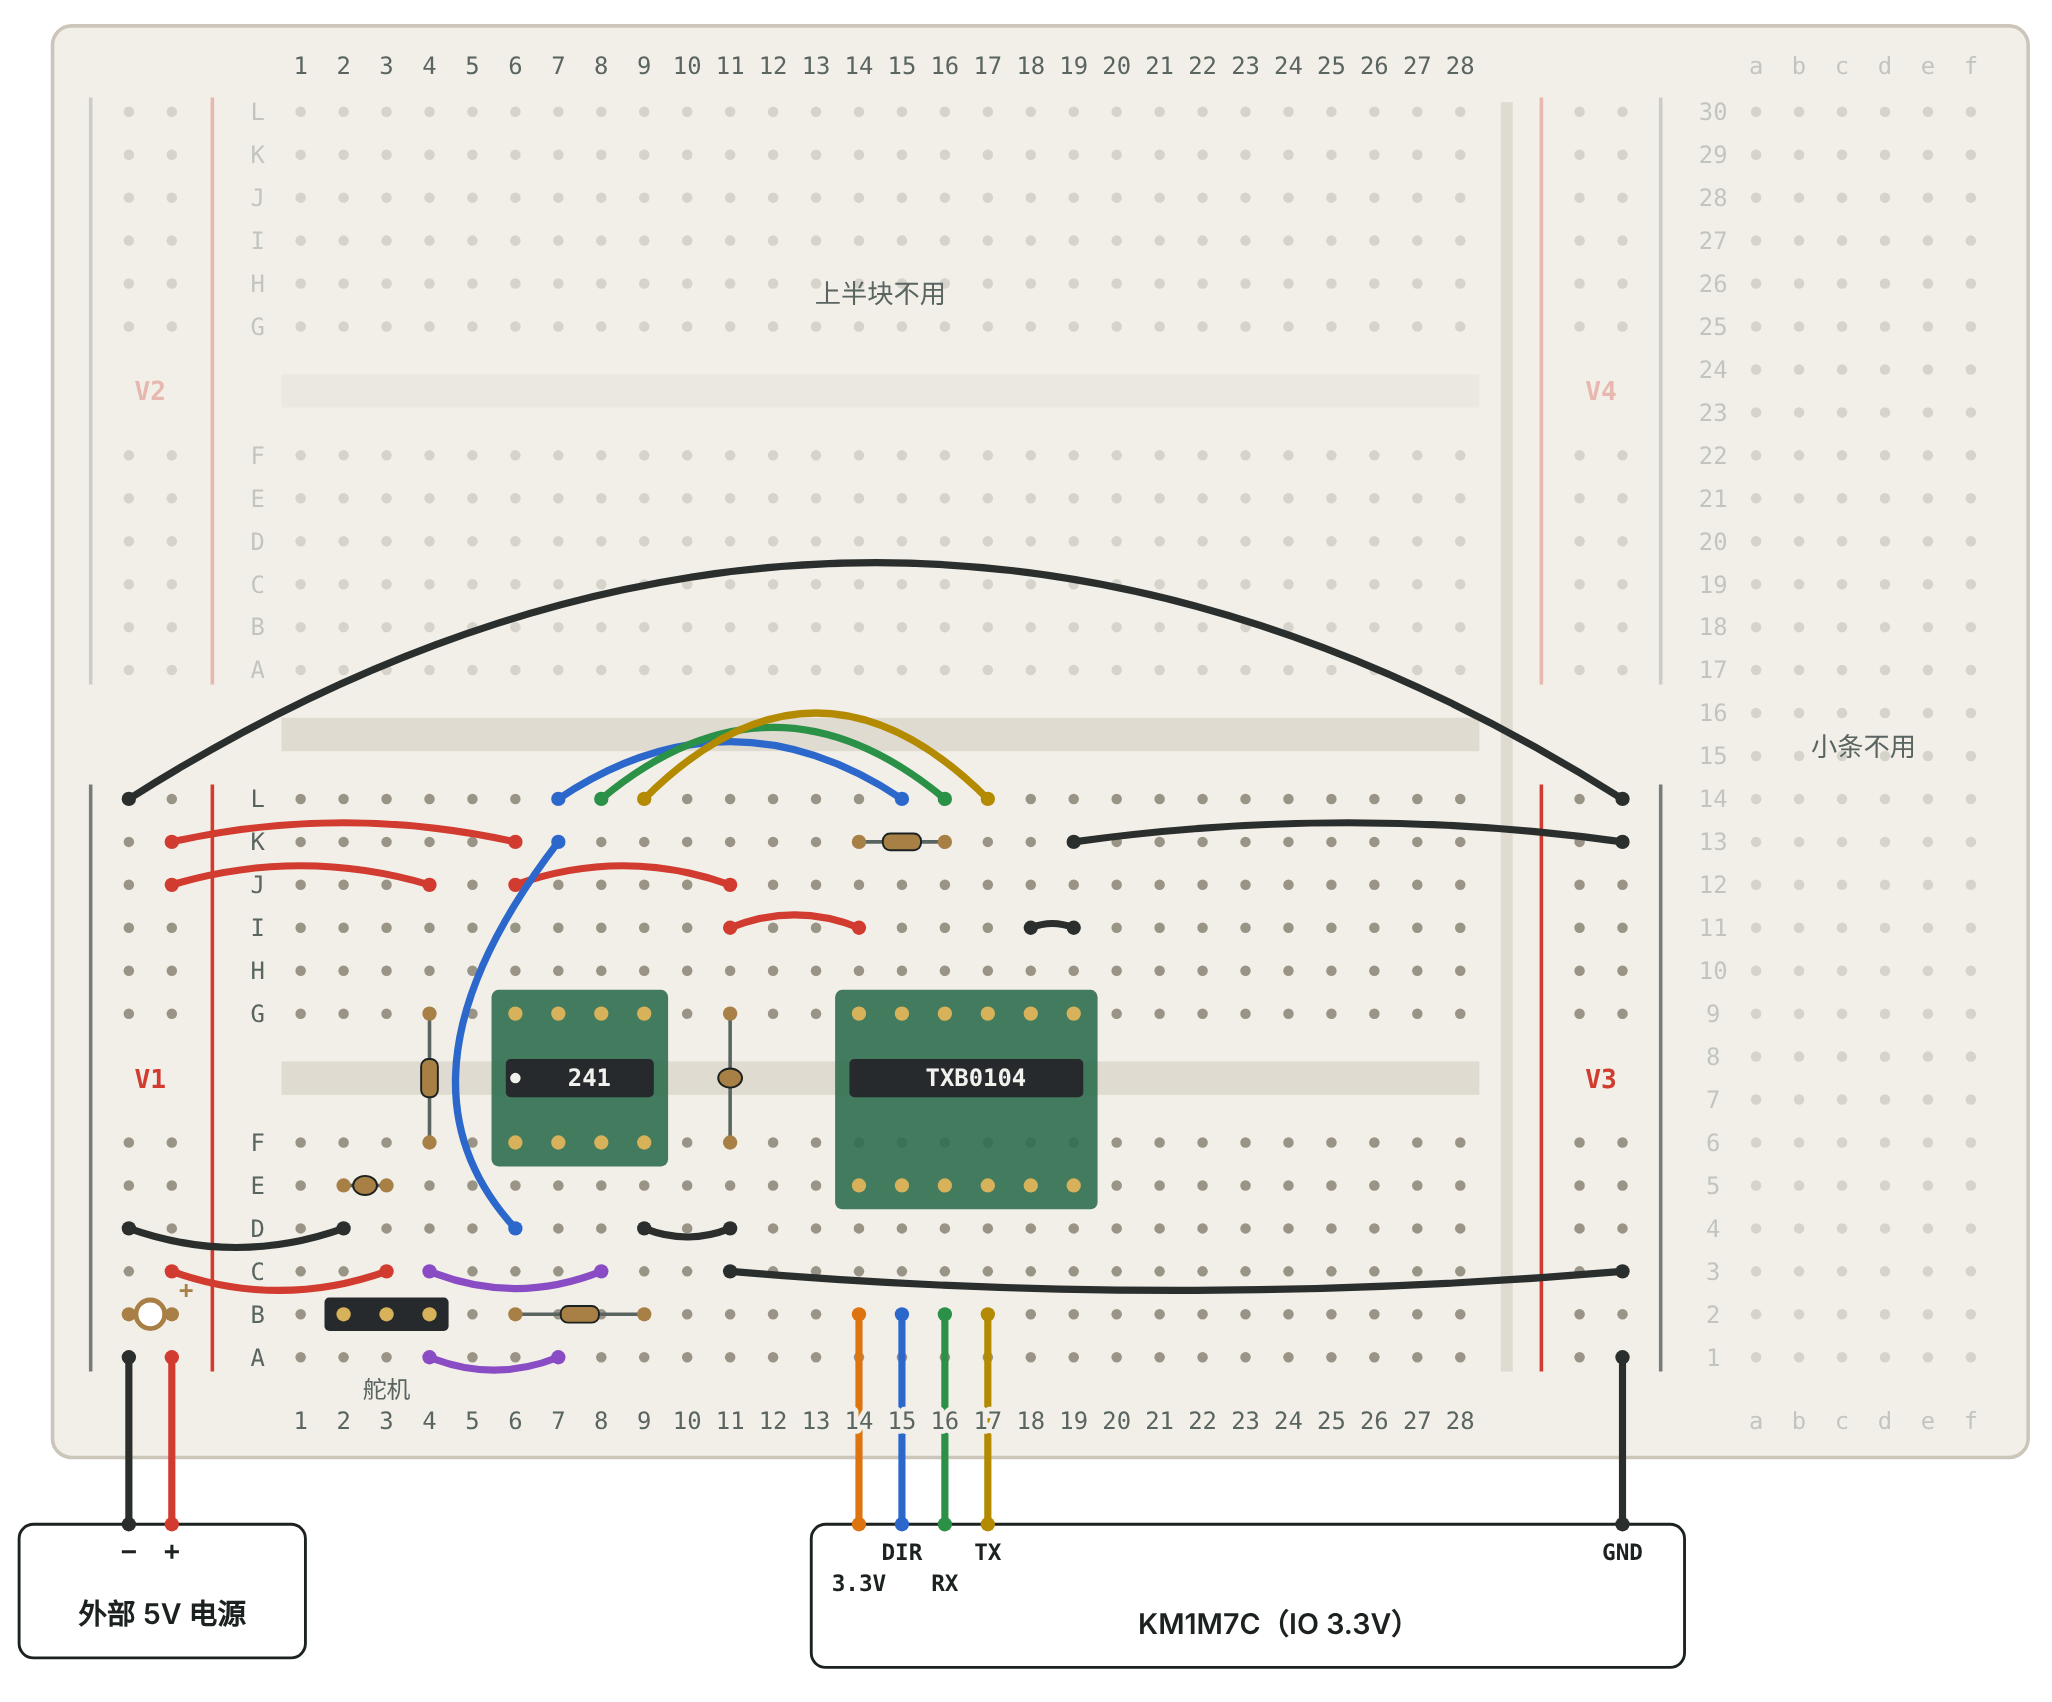
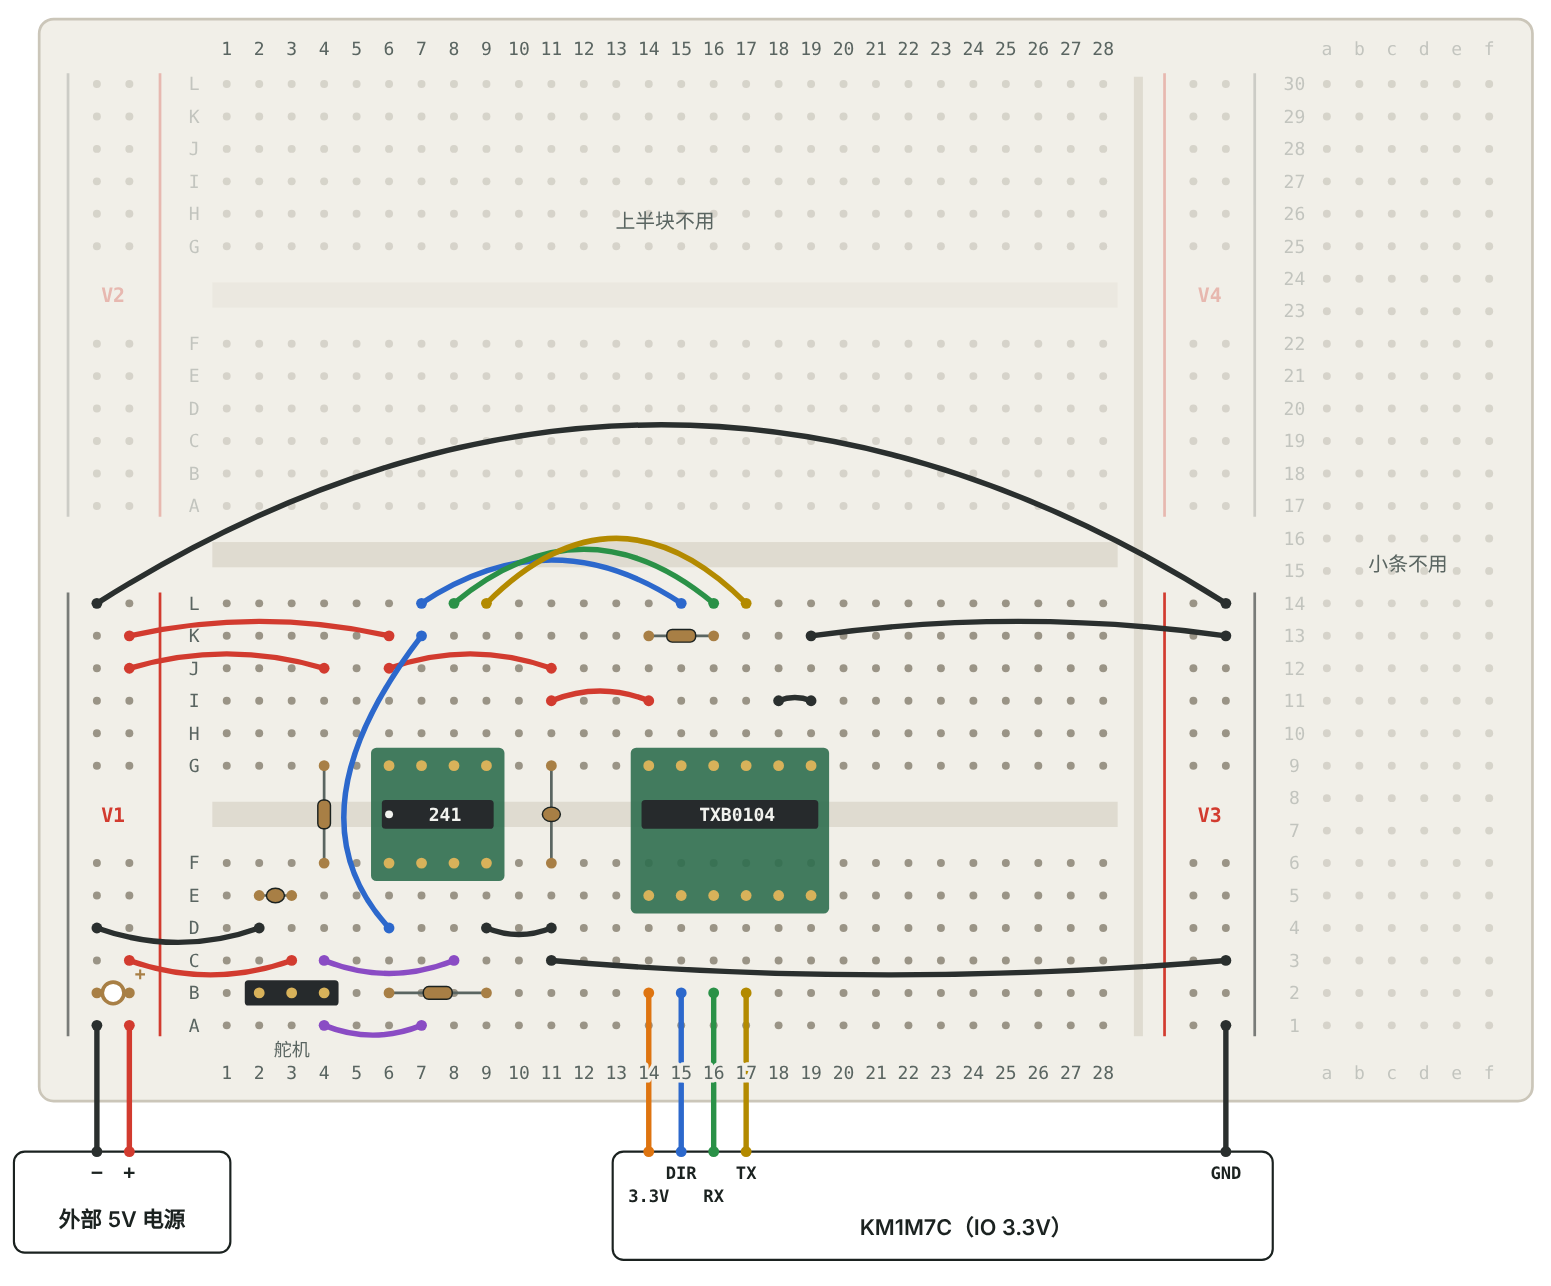
Add Adafruit 1875 module internal diagram
Claude-Session: https://claude.ai/code/session_01WiTXKFSppvefth2JxyFg7v

diff --git a/docs/breadboard/xl330_breadboard.html b/docs/breadboard/xl330_breadboard.html
@@ -258,6 +258,70 @@ ol.steps{margin:0;padding-left:1.4em;display:grid;gap:8px;max-width:72ch}
     </div>
   </section>
 
+  <section aria-labelledby="mod-h">
+    <h2 id="mod-h">TXB0104 模块内部</h2>
+    <p class="lede">这是 Adafruit 1875 模块板上的电路（照官方电路图画的）。虚线框里的元件板上已经焊好：C1、C2 是 LV、HV 的去耦电容，R1 把 OE 上拉到 LV，所以芯片一通电就工作。两侧圆点是排针，下面的小字是它在面包板上插的孔，框外写的是面包板上要接到哪里（括号里是接线清单编号）。</p>
+    <div class="frame">
+<svg class="sch" viewBox="0 0 1060 410" role="img" aria-labelledby="mod-t mod-d"><title id="mod-t">TXB0104 模块内部电路和面包板接法</title><desc id="mod-d">Adafruit 1875 模块：TXB0104 芯片、C1 和 C2 两个 0.1µF 去耦电容、R1 10k 把 OE 上拉到 LV。左排 LV A1 A2 A3 A4 OE 插 14E 到 19E，右排 HV B1 B2 B3 B4 GND 插 14G 到 19G，框外标出每个引脚在面包板上接到哪里。</desc>
+<rect x="305" y="30" width="460" height="370" rx="10" style="fill:none;stroke:var(--muted);stroke-width:1.5;stroke-dasharray:6 5"/>
+<text x="315" y="48" style="font-family:var(--sans);font-size:12px;fill:var(--muted)">Adafruit 1875 模块（虚线框内是板上已有的元件）</text>
+<rect class="bx" x="430" y="80" width="200" height="255" rx="6"/><text class="ttl" x="530" y="205" text-anchor="middle">TXB0104</text><text x="530" y="225" text-anchor="middle">每个通道自动判断方向</text>
+<line class="ln s-33" x1="295" y1="110" x2="320" y2="110"/><line class="ln s-33" x1="320" y1="110" x2="430" y2="110"/>
+<circle cx="320" cy="110" r="5" style="fill:var(--surface);stroke:var(--ink);stroke-width:1.5"/>
+<text x="330" y="103" style="font-weight:600;fill:var(--ink)">LV</text><text x="320" y="129" text-anchor="middle">14E</text>
+<text x="438" y="114">VCCA</text><text x="288" y="114" text-anchor="end" class="t-33">MCU 3.3V（M1）</text>
+<line class="ln s-dir" x1="295" y1="150" x2="320" y2="150"/><line class="ln s-dir" x1="320" y1="150" x2="430" y2="150"/>
+<circle cx="320" cy="150" r="5" style="fill:var(--surface);stroke:var(--ink);stroke-width:1.5"/>
+<text x="330" y="143" style="font-weight:600;fill:var(--ink)">A1</text><text x="320" y="169" text-anchor="middle">15E</text>
+<text x="438" y="154">A1</text><text x="288" y="154" text-anchor="end" class="t-dir">MCU DIR（S1）</text>
+<line class="ln s-rx" x1="295" y1="190" x2="320" y2="190"/><line class="ln s-rx" x1="320" y1="190" x2="430" y2="190"/>
+<circle cx="320" cy="190" r="5" style="fill:var(--surface);stroke:var(--ink);stroke-width:1.5"/>
+<text x="330" y="183" style="font-weight:600;fill:var(--ink)">A2</text><text x="320" y="209" text-anchor="middle">16E</text>
+<text x="438" y="194">A2</text><text x="288" y="194" text-anchor="end" class="t-rx">MCU RX（S2）</text>
+<line class="ln s-tx" x1="295" y1="230" x2="320" y2="230"/><line class="ln s-tx" x1="320" y1="230" x2="430" y2="230"/>
+<circle cx="320" cy="230" r="5" style="fill:var(--surface);stroke:var(--ink);stroke-width:1.5"/>
+<text x="330" y="223" style="font-weight:600;fill:var(--ink)">A3</text><text x="320" y="249" text-anchor="middle">17E</text>
+<text x="438" y="234">A3</text><text x="288" y="234" text-anchor="end" class="t-tx">MCU TX（S3）</text>
+<line class="ln s-mut" x1="320" y1="270" x2="430" y2="270"/>
+<circle cx="320" cy="270" r="5" style="fill:var(--surface);stroke:var(--ink);stroke-width:1.5"/>
+<text x="330" y="263" style="font-weight:600;fill:var(--ink)">A4</text><text x="320" y="289" text-anchor="middle">18E</text>
+<text x="438" y="274">A4</text><text x="296" y="274" text-anchor="end" style="fill:var(--muted)">不接</text>
+<line class="ln s-mut" x1="320" y1="310" x2="430" y2="310"/>
+<circle cx="320" cy="310" r="5" style="fill:var(--surface);stroke:var(--ink);stroke-width:1.5"/>
+<text x="330" y="303" style="font-weight:600;fill:var(--ink)">OE</text><text x="320" y="329" text-anchor="middle">19E</text>
+<text x="438" y="314">OE</text><text x="296" y="314" text-anchor="end" style="fill:var(--muted)">不接</text>
+<line class="ln s-5" x1="630" y1="110" x2="750" y2="110"/><line class="ln s-5" x1="750" y1="110" x2="775" y2="110"/>
+<circle cx="750" cy="110" r="5" style="fill:var(--surface);stroke:var(--ink);stroke-width:1.5"/>
+<text x="740" y="103" text-anchor="end" style="font-weight:600;fill:var(--ink)">HV</text><text x="750" y="129" text-anchor="middle">14G</text>
+<text x="622" y="114" text-anchor="end">VCCB</text><text x="782" y="114" class="t-5">外部 5V（P7）</text>
+<line class="ln s-dir" x1="630" y1="150" x2="750" y2="150"/><line class="ln s-dir" x1="750" y1="150" x2="775" y2="150"/>
+<circle cx="750" cy="150" r="5" style="fill:var(--surface);stroke:var(--ink);stroke-width:1.5"/>
+<text x="740" y="143" text-anchor="end" style="font-weight:600;fill:var(--ink)">B1</text><text x="750" y="169" text-anchor="middle">15G</text>
+<text x="622" y="154" text-anchor="end">B1</text><text x="782" y="154" class="t-dir">241 2OE / 1OE（S4）</text>
+<line class="ln s-rx" x1="630" y1="190" x2="750" y2="190"/><line class="ln s-rx" x1="750" y1="190" x2="775" y2="190"/>
+<circle cx="750" cy="190" r="5" style="fill:var(--surface);stroke:var(--ink);stroke-width:1.5"/>
+<text x="740" y="183" text-anchor="end" style="font-weight:600;fill:var(--ink)">B2</text><text x="750" y="209" text-anchor="middle">16G</text>
+<text x="622" y="194" text-anchor="end">B2</text><text x="782" y="194" class="t-rx">241 1Y（S5），R2 上拉</text>
+<line class="ln s-tx" x1="630" y1="230" x2="750" y2="230"/><line class="ln s-tx" x1="750" y1="230" x2="775" y2="230"/>
+<circle cx="750" cy="230" r="5" style="fill:var(--surface);stroke:var(--ink);stroke-width:1.5"/>
+<text x="740" y="223" text-anchor="end" style="font-weight:600;fill:var(--ink)">B3</text><text x="750" y="249" text-anchor="middle">17G</text>
+<text x="622" y="234" text-anchor="end">B3</text><text x="782" y="234" class="t-tx">241 2A（S6）</text>
+<line class="ln s-g" x1="630" y1="270" x2="750" y2="270"/><line class="ln s-g" x1="750" y1="270" x2="775" y2="270"/>
+<circle cx="750" cy="270" r="5" style="fill:var(--surface);stroke:var(--ink);stroke-width:1.5"/>
+<text x="740" y="263" text-anchor="end" style="font-weight:600;fill:var(--ink)">B4</text><text x="750" y="289" text-anchor="middle">18G</text>
+<text x="622" y="274" text-anchor="end">B4</text><text x="782" y="274" class="t-g">GND（P10）</text>
+<line class="ln s-g" x1="630" y1="310" x2="750" y2="310"/><line class="ln s-g" x1="750" y1="310" x2="775" y2="310"/>
+<circle cx="750" cy="310" r="5" style="fill:var(--surface);stroke:var(--ink);stroke-width:1.5"/>
+<text x="740" y="303" text-anchor="end" style="font-weight:600;fill:var(--ink)">GND</text><text x="750" y="329" text-anchor="middle">19G</text>
+<text x="622" y="314" text-anchor="end">GND</text><text x="782" y="314" class="t-g">V3 −（P9）</text>
+<circle class="d-dir" cx="370" cy="110" r="3.5" style="fill:var(--ink)"/><line class="ln" style="stroke:var(--ink)" x1="370" y1="110" x2="370" y2="88"/><line class="ln" style="stroke:var(--ink)" x1="359" y1="88" x2="381" y2="88"/><line class="ln" style="stroke:var(--ink)" x1="359" y1="81" x2="381" y2="81"/><line class="ln s-g" x1="370" y1="81" x2="370" y2="70"/><text class="t-g" x="370" y="66" text-anchor="middle">GND</text><text x="384" y="84">C1</text><text x="384" y="98">0.1µF</text>
+<circle class="d-dir" cx="690" cy="110" r="3.5" style="fill:var(--ink)"/><line class="ln" style="stroke:var(--ink)" x1="690" y1="110" x2="690" y2="88"/><line class="ln" style="stroke:var(--ink)" x1="679" y1="88" x2="701" y2="88"/><line class="ln" style="stroke:var(--ink)" x1="679" y1="81" x2="701" y2="81"/><line class="ln s-g" x1="690" y1="81" x2="690" y2="70"/><text class="t-g" x="690" y="66" text-anchor="middle">GND</text><text x="706" y="89">C2 0.1µF</text>
+<circle cx="395" cy="310" r="3.5" style="fill:var(--ink)"/><line class="ln s-mut" x1="395" y1="310" x2="395" y2="328"/><rect class="res" x="389" y="328" width="12" height="30" rx="2"/><line class="ln s-33" x1="395" y1="358" x2="395" y2="372"/><text class="t-33" x="395" y="387" text-anchor="middle">LV</text><text x="409" y="348">R1 10k</text>
+</svg>
+    </div>
+    <p class="cap">把整块模块当成一个 12 脚的器件：芯片的电源、去耦电容和 OE 板上都处理好了，面包板上只接框外这些线——左排 4 根（3.3V 和三根 MCU 信号），右排 6 根（5V、三根到 241 的信号、B4 和 GND 接地）。A4、OE 两个针插着，但什么都不接；B4 是没用到的第 4 通道，接 GND 让它不悬空。</p>
+  </section>
+
   <section aria-labelledby="bb-h">
     <h2 id="bb-h">面包板布局</h2>
     <p class="lede">按你照片里这块板画的，方向也和照片一样。这块板的电源轨在列的两头（左边 V1/V2，右边 V3/V4），不是沿着列走，所以用第 11 列做了一个 5V 和 GND 的中转点，两颗芯片的电源从这里接，线更短。点下面清单里的任意一条，图上会只突出那一根线。</p>

diff --git a/docs/breadboard/README.md b/docs/breadboard/README.md
@@ -28,6 +28,14 @@
 
 同名的电源标签表示接在同一条电源线上：+5V 是外部 5V 电源（同时给舵机供电），+3.3V 来自 MCU 板。舵机的 VDD 和 GND 之间按 ROBOTIS 推荐电路并联 100µF 电解电容和 0.1µF 瓷片电容（见 [ROBOTIS e-Manual 的 Communication Circuit](https://emanual.robotis.com/docs/en/dxl/x/xl330-m288/#communication-circuit)）。TXB0104 的三个通道可以随意分配，这里按 A1 = DIR、A2 = RX、A3 = TX 接，是为了让面包板上的连线不交叉。
 
+## TXB0104 模块内部（Adafruit 1875）
+
+模块板上已经焊好：C1、C2 是 LV、HV 的 0.1µF 去耦电容，R1 10k 把 OE 上拉到 LV，所以芯片一通电就工作。把整块模块当成一个 12 脚的器件，面包板上只接框外这些线。圆点是排针，下面的小字是它在面包板上插的孔，括号里是接线清单编号。
+
+![TXB0104 模块内部](img/module.png)
+
+A4、OE 两个针插着，但什么都不接；B4 是没用到的第 4 通道，接 GND 让它不悬空。
+
 ## 面包板布局
 
 这块板的电源轨在列的两头（左边 V1/V2，右边 V3/V4），不是沿着列走，所以用第 11 列做了一个 5V 和 GND 的中转点，两颗芯片的电源从这里接，线更短。
